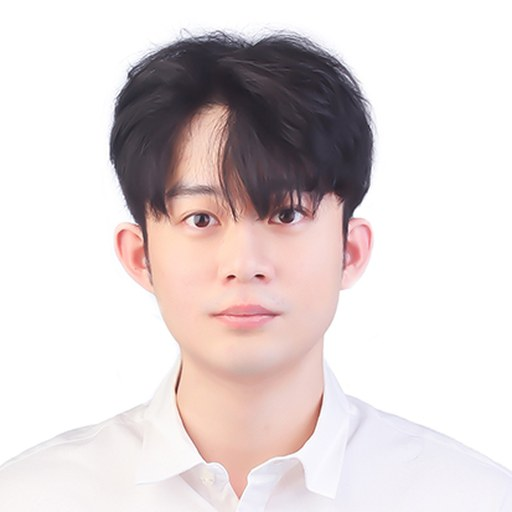
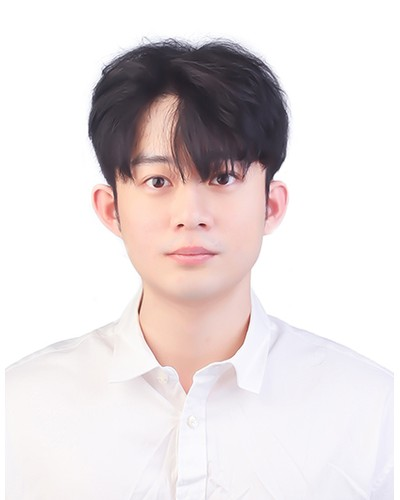
Deploying to gh-pages from @ CMIL-KMU/ChunGroupWebsite@24ec7c32568531c07d93e0b109a85da086f7182a 🚀

diff --git a/_styles/portrait.css b/_styles/portrait.css
@@ -37,7 +37,7 @@
   border-radius: 999px;
   background: var(--background);
   box-shadow: var(--shadow);
-  transform: translate(14%, 14%);
+  transform: translate(8%, 8%);
 }
 
 .portrait[data-style=small] .icon {
@@ -52,8 +52,8 @@
 .portrait-image {
   width: 100%;
   margin-bottom: 20px;
-  aspect-ratio: 1/1;
-  border-radius: 999px;
+  aspect-ratio: 4/5;
+  border-radius: var(--rounded);
   object-fit: cover;
   box-shadow: var(--shadow);
 }
@@ -61,6 +61,8 @@
 .portrait[data-style=tiny] .portrait-image {
   width: 50px;
   margin: 0;
+  aspect-ratio: 1/1;
+  border-radius: 999px;
 }
 
 .portrait-name {

diff --git a/team/index.html b/team/index.html
@@ -529,10 +529,6 @@
 </div>
 
     
-  </div>
-
-<div class="list-grid" data-component="portrait">
-    
       
 
 
@@ -561,10 +557,6 @@
   </a>
 </div>
 
-    
-  </div>
-
-<div class="list-grid" data-component="portrait">
     
       
 

diff --git a/_styles/header.css b/_styles/header.css
@@ -28,11 +28,14 @@ header a {
 
 .logo {
   height: 40px;
+  flex-shrink: 0;
 }
 
 .logo > * {
-  width: unset;
+  width: auto;
   height: 100%;
+  max-width: none;
+  flex-shrink: 0;
 }
 
 .title-text {
